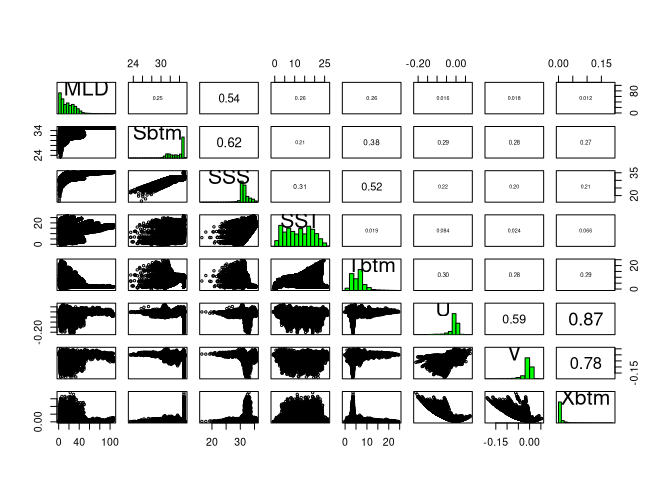
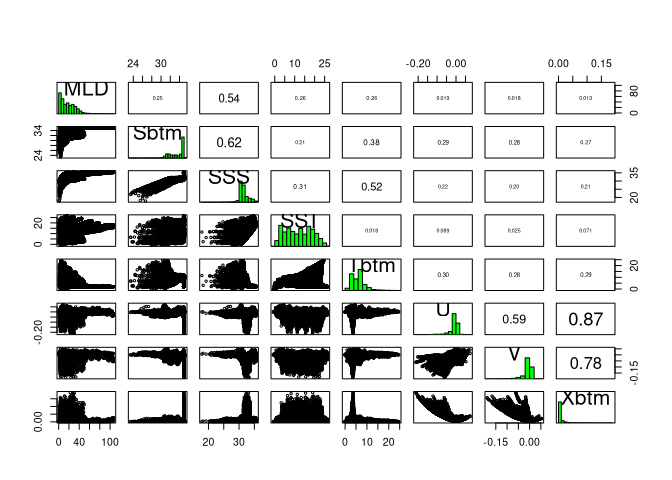
Commit everything.

diff --git a/Second.species.md b/Second.species.md
@@ -206,21 +206,21 @@ obsbkg
     ## Simple feature collection with 22947 features and 2 fields
     ## Geometry type: POINT
     ## Dimension:     XY
-    ## Bounding box:  xmin: -74.9 ymin: 38.84435 xmax: -65.02004 ymax: 45.4147
+    ## Bounding box:  xmin: -74.9 ymin: 38.84822 xmax: -65.02004 ymax: 45.41467
     ## Geodetic CRS:  WGS 84
     ## # A tibble: 22,947 × 3
     ##    month class                geometry
     ##  * <fct> <fct>             <POINT [°]>
-    ##  1 Jan   presence      (-68.46 42.755)
-    ##  2 Jan   presence (-69.23333 40.16667)
-    ##  3 Jan   presence (-73.06867 38.90267)
-    ##  4 Jan   presence       (-69.85 40.25)
-    ##  5 Jan   presence    (-71.51667 40.15)
-    ##  6 Jan   presence   (-73.43817 38.895)
-    ##  7 Jan   presence (-73.33333 39.13333)
-    ##  8 Jan   presence     (-71.41667 40.3)
-    ##  9 Jan   presence  (-72.75133 39.1165)
-    ## 10 Jan   presence  (-73.4395 38.98933)
+    ##  1 Jan   presence (-72.92583 38.96967)
+    ##  2 Jan   presence (-69.63333 40.13333)
+    ##  3 Jan   presence    (-71.51667 40.15)
+    ##  4 Jan   presence    (-71.55 40.06667)
+    ##  5 Jan   presence    (-72.06667 39.65)
+    ##  6 Jan   presence     (-72.46667 39.2)
+    ##  7 Jan   presence     (-71.2 40.08333)
+    ##  8 Jan   presence     (-71.78333 40.2)
+    ##  9 Jan   presence   (-72.715 39.21667)
+    ## 10 Jan   presence    (-71.36667 39.95)
     ## # ℹ 22,937 more rows
 
 \#check tallying for each month
